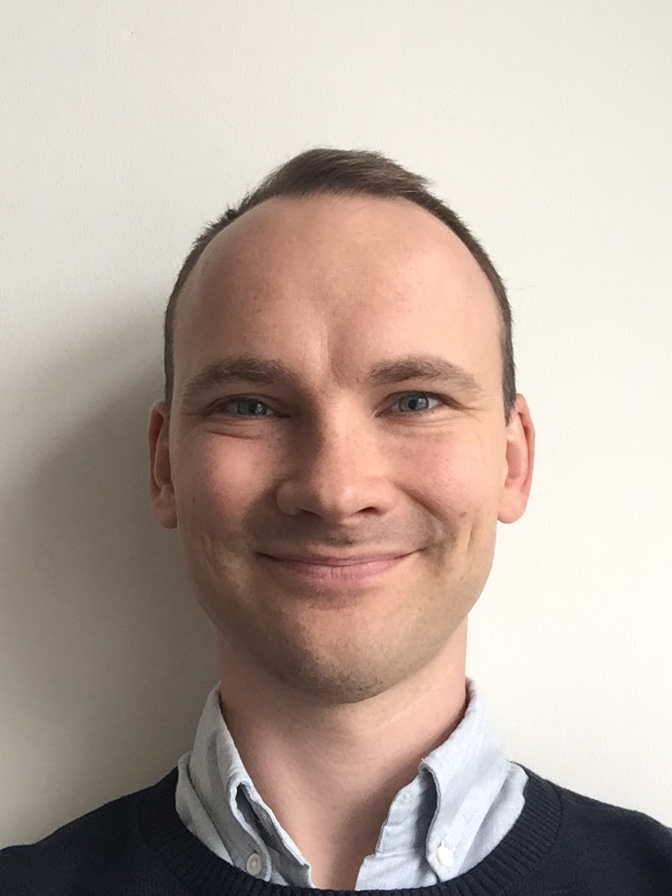
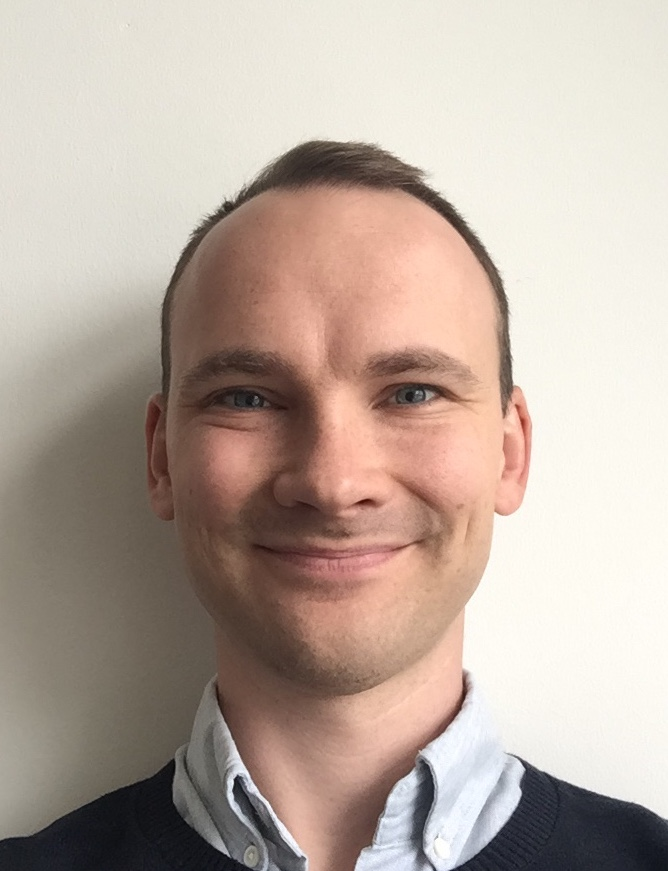
updated pic

diff --git a/main.css b/main.css
@@ -59,9 +59,10 @@ li {
 }
 
 #photo img {
-	width: 120px;
+	width: 125px;
 	height: 160px;
 	margin-right: 10px;
+	border: #999 1px solid;
 }
 
 #title {
